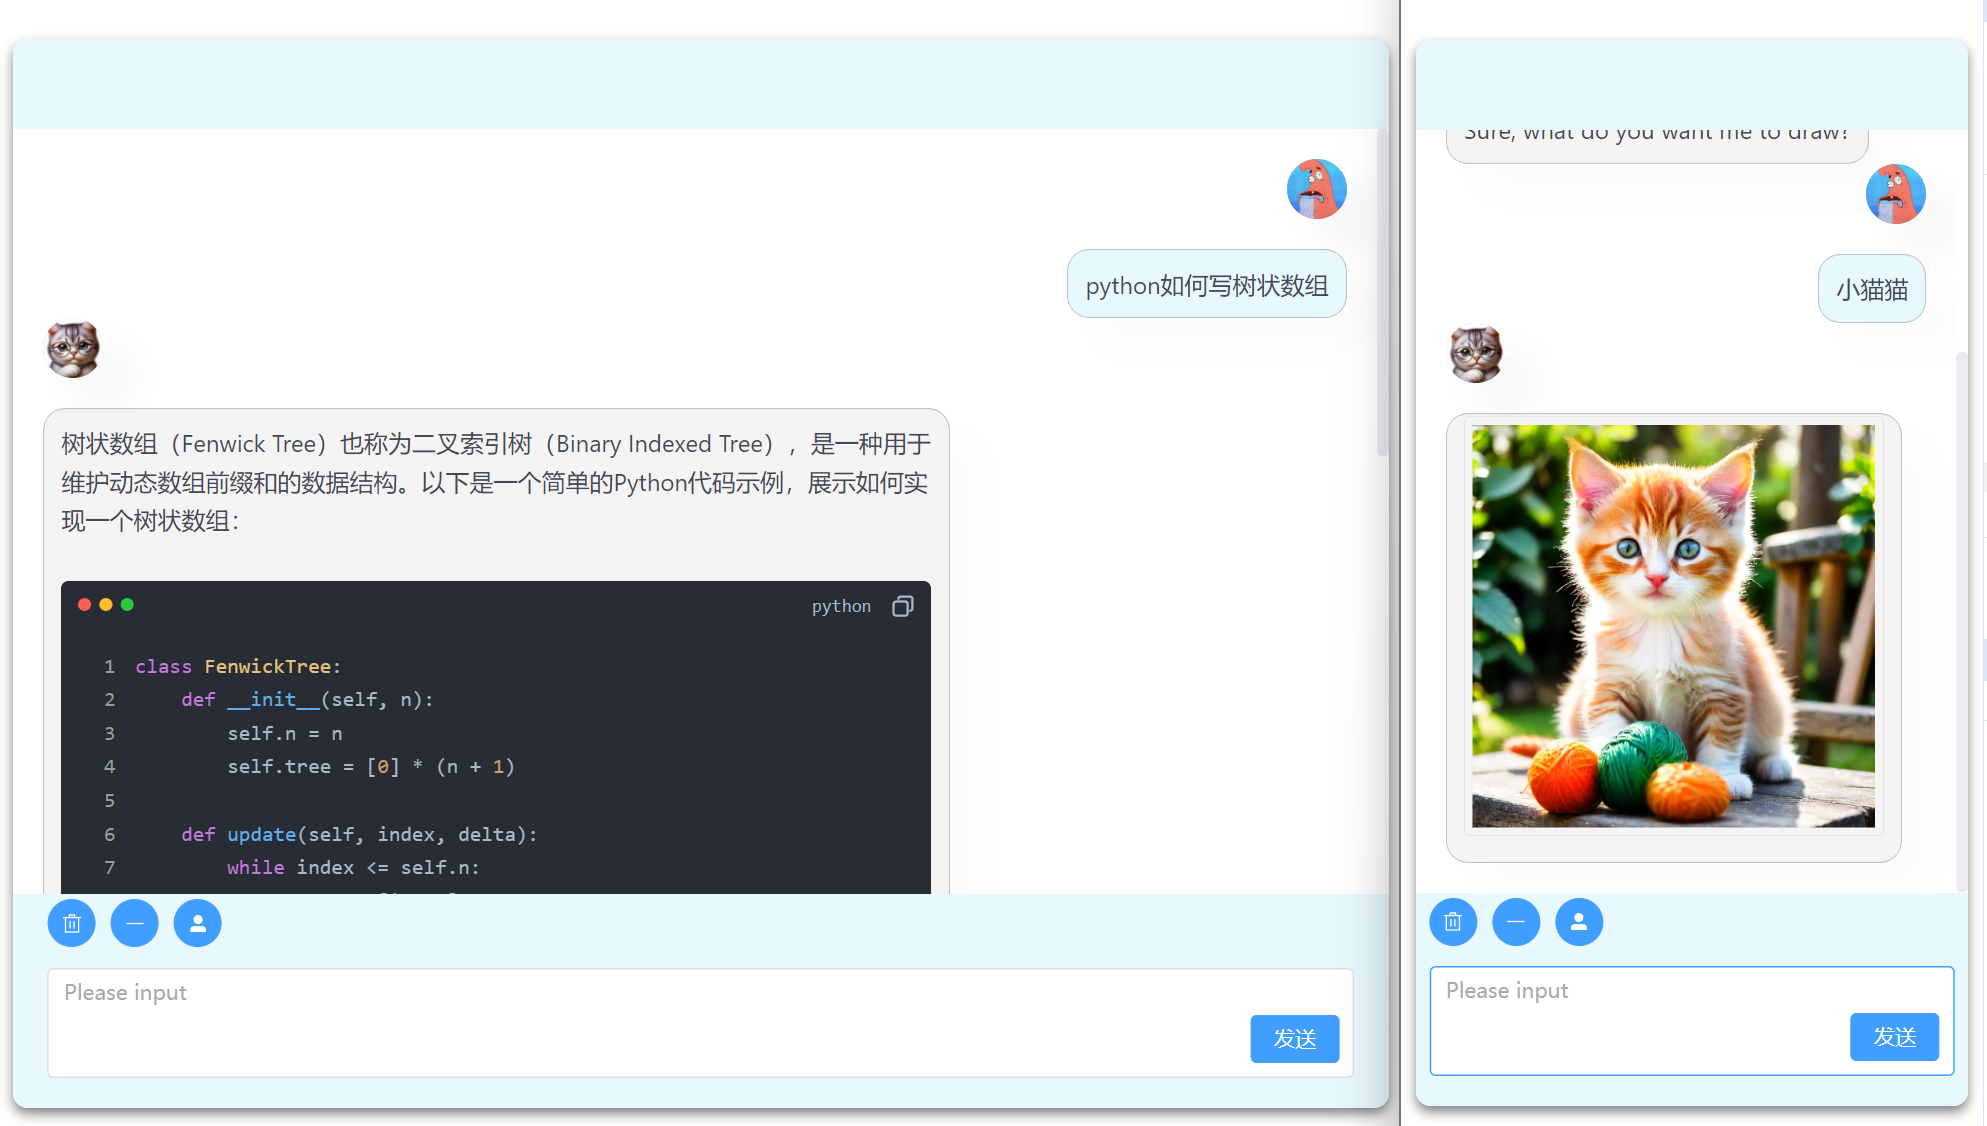
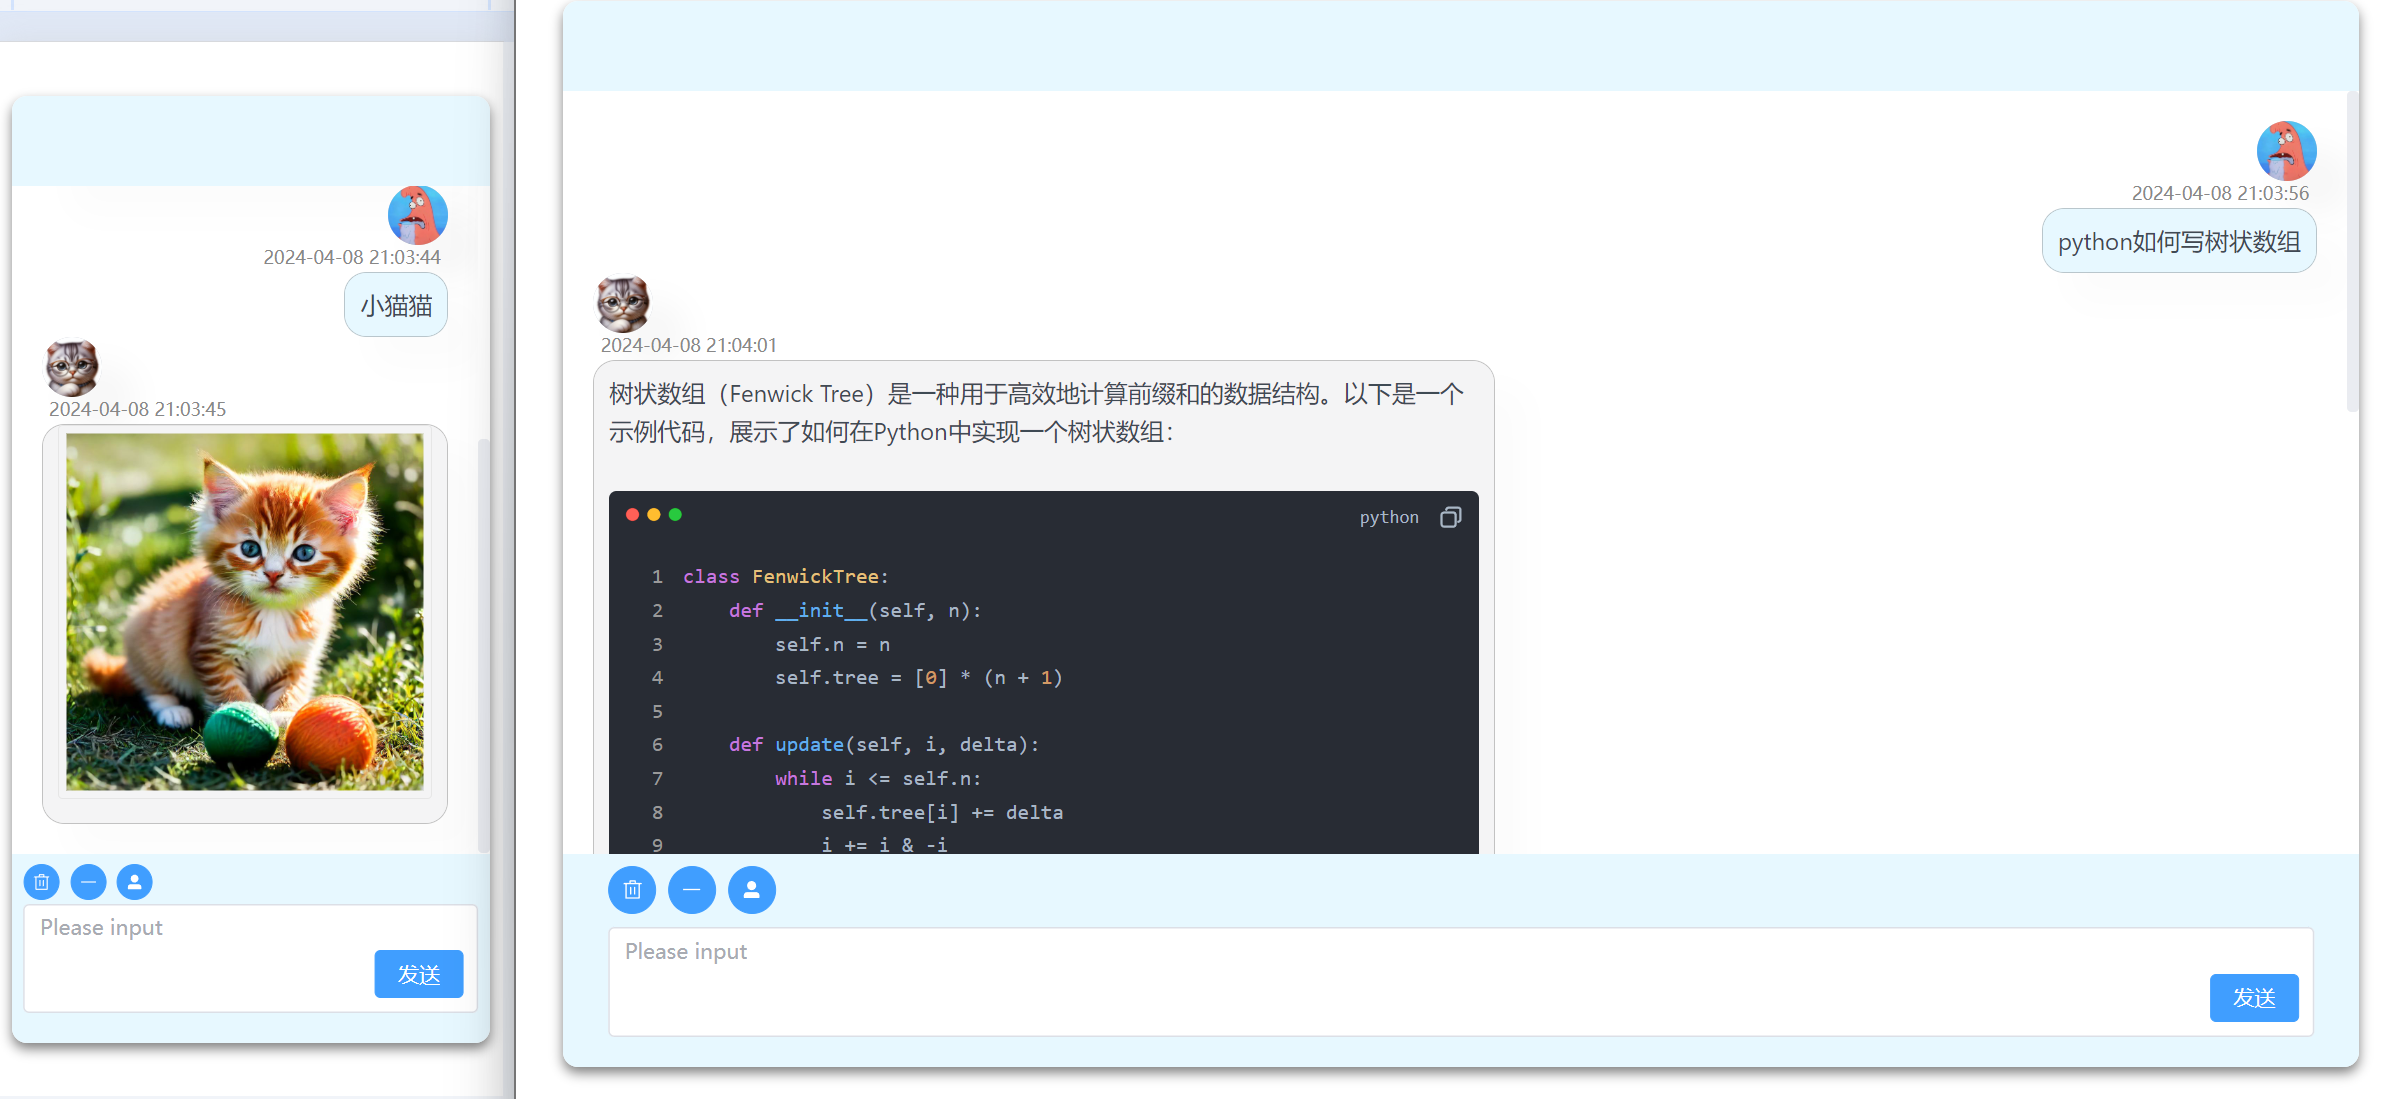
新增对话时间显示

diff --git a/src/components/ChatFrame.vue b/src/components/ChatFrame.vue
@@ -1,6 +1,7 @@
 <script lang="ts" setup>
 // import { PropType } from 'vue'
 import { type GPTmessage } from '../types'
+import { formatDateTime } from '../utils/formetTime'
 import { computed } from 'vue'
 const a: string = '../../public/patrick1.png'
 const b: string = '../../public/cat.png'
@@ -9,15 +10,15 @@ const props = defineProps<{
 }>()
 
 const processedContent = computed(() => {
-  const content = props.message.content;
-  
+  const content = props.message.content
+
   // Check if 'http' or 'https' is in the string
   if ((content.includes('http') || content.includes('https')) && content.includes(' ')) {
-    return content.replace(/ /g, '%20');
+    return content.replace(/ /g, '%20')
   }
-  
-  return content;
-});
+
+  return content
+})
 </script>
 
 <template>
@@ -25,29 +26,34 @@ const processedContent = computed(() => {
     v-if="['user', 'assistant'].includes(message.role)"
     :class="['message-row', message.role === 'user' ? 'right' : 'left']"
   >
+    <div class="timestamp">
+      {{ formatDateTime(message.createdAt) }}
+    </div>
 
     <div class="row">
-      <!-- 头像， -->
+      <!-- 用户或助手的头像 -->
       <div class="avatar-wrapper">
         <el-avatar
-          v-if="message.role === 'user'"
-          :src="a"
-          class="avatar"
-          shape="circle"
-          size="default"
+            v-if="message.role === 'user'"
+            :src="a"
+            class="avatar"
+            shape="circle"
+            size="default"
         />
         <el-avatar v-else :src="b" class="avatar" shape="circle" size="default" />
       </div>
+
+      <!-- 消息内容 -->
       <div class="message">
         <MdPreview
-          :id="'preview-only'"
-          :preview-theme="'default'"
-          :model-value="processedContent"
-          :showCodeRowNumber="true"
-          :style="{
-            backgroundColor: message.role === 'user' ? 'rgb(231, 248, 255)' : '#f4f4f5'
-          }"
-          v-if="processedContent"
+            :id="'preview-only'"
+            :preview-theme="'default'"
+            :model-value="processedContent"
+            :showCodeRowNumber="true"
+             :style="{
+               backgroundColor: message.role === 'user' ? 'rgb(231, 248, 255)' : '#f4f4f5'
+             }"
+             v-if="processedContent"
         ></MdPreview>
         <ChatLoading v-else></ChatLoading>
       </div>

diff --git a/src/styles/ChatFrame.scss b/src/styles/ChatFrame.scss
@@ -1,8 +1,19 @@
 .message-row {
   display: flex;
+  position: relative;
+
+  &.left {
+    .timestamp {
+      position: absolute;
+      color: #888;
+      font-size: 12px;
+      top: 40px;
+      left: 0;
+      margin-left: 5px;
+    }
+  }
 
   &.right {
-
     justify-content: flex-end;
 
     .row {
@@ -10,10 +21,20 @@
         display: flex;
         justify-content: flex-end;
       }
+
       .message {
         overflow: hidden;
         background-color: rgb(231, 248, 255);
       }
+    }
+
+    .timestamp {
+      position: absolute;
+      color: #888;
+      font-size: 12px;
+      top: 40px;
+      right: 0;
+      margin-right: 5px;
     }
   }
 
@@ -21,27 +42,27 @@
     .avatar-wrapper {
       .avatar {
         box-shadow: 20px 20px 20px 3px rgba(0, 0, 0, 0.03);
-        margin-bottom: 20px;
+        margin-bottom: 18px;
       }
     }
 
     .message {
       overflow: hidden;
       font-size: 15px;
-      padding: 1.5px;
+      padding: 0px;
       max-width: 300px;
       background-color: rgb(242, 242, 242);
       border-radius: 15px;
       border: 1px solid rgba(black, 0.2);
       box-shadow: 20px 20px 20px 2px rgba(0, 0, 0, 0.01);
     }
+
     @media screen and (max-width: 4000px) {
       .message {
         max-width: 300px; /* 设置消息展示的最大宽度为300px */
       }
     }
 
-    /* 媒体查询，当屏幕宽度大于600px时应用以下样式 */
     @media screen and (min-width: 600px) {
       .message {
         max-width: 600px; /* 设置消息展示的最大宽度为500px */
@@ -50,7 +71,6 @@
   }
 }
 
-// 调整markdown组件的一些样式，deep可以修改组件内的样式，正常情况是scoped只能修改本组件的样式。
 :deep(.md-editor-preview-wrapper) {
   padding: 0 10px;
 

diff --git a/src/components/MaskButton.vue b/src/components/MaskButton.vue
@@ -1,6 +1,12 @@
 <template>
-  <el-dropdown @command="handleCommand" size="large" placement="top" trigger="click" max-height = "300px">
-    <el-button type="primary" circle>
+  <el-dropdown
+    @command="handleCommand"
+    size="large"
+    placement="top"
+    trigger="click"
+    max-height="300px"
+  >
+    <el-button type="primary" circle :size="buttonSize">
       <el-icon><UserFilled /></el-icon>
     </el-button>
     <template #dropdown>
@@ -25,7 +31,22 @@ import {
 import { useMessageContentStore, useMessageStore } from '@/store/message'
 import type { Mask } from '@/types'
 import { mask } from '@/store/mask'
-import { setChatList, setMessageList } from '@/services/init'
+import { setChatList, setMessageList } from '@/utils/init'
+import { onMounted, onUnmounted, ref } from 'vue'
+
+//按钮大小
+const buttonSize = ref<'default' | 'small'>('default')
+const updateSize = () => {
+  buttonSize.value = window.innerWidth <= 768 ? 'small' : 'default'
+}
+onMounted(() => {
+  window.addEventListener('resize', updateSize)
+  updateSize()
+})
+
+onUnmounted(() => {
+  window.removeEventListener('resize', updateSize)
+})
 
 const messageStore = useMessageStore()
 const contentStore = useMessageContentStore()
@@ -34,7 +55,7 @@ const handleCommand = (command: number) => {
   const msg = '已选择' + command + '模型'
   let createdAt = Number(command)
   const newMask: Mask = mask.find((item) => item.createdAt === createdAt)!
-//   console.log(newMask)
+  //   console.log(newMask)
   messageStore.clearMessages()
   messageStore.addMessages(setChatList(newMask).messages)
   contentStore.clearMessages()

diff --git a/src/components/ModelButton.vue b/src/components/ModelButton.vue
@@ -1,6 +1,12 @@
 <template>
-  <el-dropdown @command="handleCommand" size="large" placement="top" trigger="click" max-height = "300px">
-    <el-button type="primary" circle>
+  <el-dropdown
+    @command="handleCommand"
+    size="large"
+    placement="top"
+    trigger="click"
+    max-height="300px"
+  >
+    <el-button type="primary" circle :size="buttonSize">
       <el-icon><Minus /></el-icon>
     </el-button>
     <template #dropdown>
@@ -24,6 +30,22 @@ import {
 } from 'element-plus'
 import { useOpenaiStore } from '../store/openai'
 import { model } from '../store/model'
+
+import { onMounted, onUnmounted, ref } from 'vue'
+
+//按钮大小
+const buttonSize = ref<'default' | 'small'>('default')
+const updateSize = () => {
+  buttonSize.value = window.innerWidth <= 768 ? 'small' : 'default'
+}
+onMounted(() => {
+  window.addEventListener('resize', updateSize)
+  updateSize()
+})
+
+onUnmounted(() => {
+  window.removeEventListener('resize', updateSize)
+})
 
 const openaiStore = useOpenaiStore()
 

diff --git a/src/components/ClearMessageButton.vue b/src/components/ClearMessageButton.vue
@@ -1,5 +1,5 @@
 <template>
-  <el-button type="primary" circle @click="handleCommand">
+  <el-button type="primary" circle @click="handleCommand" :size="buttonSize">
     <el-icon><Delete /></el-icon>
   </el-button>
 </template>
@@ -7,6 +7,21 @@
 <script setup lang="ts">
 import { ElButton, ElIcon, ElMessage } from 'element-plus'
 import { useMessageContentStore, useMessageStore } from '@/store/message'
+import { onMounted, onUnmounted, ref } from 'vue'
+
+//按钮大小
+const buttonSize = ref<'default' | 'small'>('default')
+const updateSize = () => {
+  buttonSize.value = window.innerWidth <= 768 ? 'small' : 'default'
+}
+onMounted(() => {
+  window.addEventListener('resize', updateSize)
+  updateSize()
+})
+
+onUnmounted(() => {
+  window.removeEventListener('resize', updateSize)
+})
 
 const messageStore = useMessageStore()
 const contentStore = useMessageContentStore()

diff --git a/src/styles/App.scss b/src/styles/App.scss
@@ -2,14 +2,16 @@
   height: 20%;
   .el-row {
     position: absolute;
-    bottom: 13.5vh;
+    // bottom: 13.5vh;
     margin-right: 10px;
+    margin-top: 1vh;
     left: 50%;
     transform: translateX(-50%);
     width: 95%;
   }
-  .el-row > *:not(:last-child) {
-    margin-right: 10px;
+  .el-row > * {
+    margin-right: 1vh;
+    // margin-left: 2.5vh;
   }
 }
 
@@ -23,7 +25,7 @@
 }
 
 .el-header {
-  background-color:rgb(231, 248, 255);
+  background-color: rgb(231, 248, 255);
 }
 
 .el-main {
@@ -33,7 +35,7 @@
 }
 
 .el-footer {
-  background-color:rgb(231, 248, 255);
+  background-color: rgb(231, 248, 255);
 }
 .full-height {
   height: 100%; /* 设置高度为父级的100% */
@@ -49,3 +51,5 @@
   display: flex;
   align-items: center;
 }
+
+

diff --git a/src/App.vue b/src/App.vue
@@ -17,7 +17,7 @@
           </el-main>
           <el-footer>
             <el-row>
-              <ClearMessageButton/>
+              <ClearMessageButton />
               <ModelButton />
               <MaskButton />
             </el-row>
@@ -35,7 +35,7 @@ import ChatFrame from '@/components/ChatFrame.vue'
 import ModelButton from '@/components/ModelButton.vue'
 import { ref } from 'vue'
 import { chat } from '@/services/chatgpt'
-import {  setMessage } from '@/services/init'
+import { setMessage } from '@/utils/init'
 import { useMessageContentStore, useMessageStore } from '@/store/message'
 import { Role, type GPTmessage, type GPTsession, type GPTsessionContent } from '@/types'
 import MaskButton from './components/MaskButton.vue'

diff --git a/src/utils/formetTime.ts b/src/utils/formetTime.ts
@@ -1,0 +1,20 @@
+export function formatDateTime(timestamp: number): string {
+  const date = new Date(timestamp)
+  const year = date.getFullYear()
+  const month = date.getMonth() + 1
+  const day = date.getDate()
+  const hours = date.getHours()
+  const minutes = date.getMinutes()
+  const seconds = date.getSeconds()
+
+  return (
+    [year, month, day].map(formatNumber).join('-') +
+    ' ' +
+    [hours, minutes, seconds].map(formatNumber).join(':')
+  )
+}
+
+function formatNumber(n: number): string {
+  const str = n.toString()
+  return str[1] ? str : '0' + str
+}

diff --git a/README.md b/README.md
@@ -13,6 +13,16 @@
 - 支持上下文联系与删除
 - 角色（面具）功能 参考项目：[NextChat](https://github.com/ChatGPTNextWeb/ChatGPT-Next-Web)
 
+## 更新日志
+
+<details open>
+<summary><b>2024年</b></summary>
+	
+日期   |  更新内容
+------- | :-------
+4-8  | 新增对话记录的时间显示，优化ui
+</details>
+
 ## 本地部署
 
 ### 填写密钥
